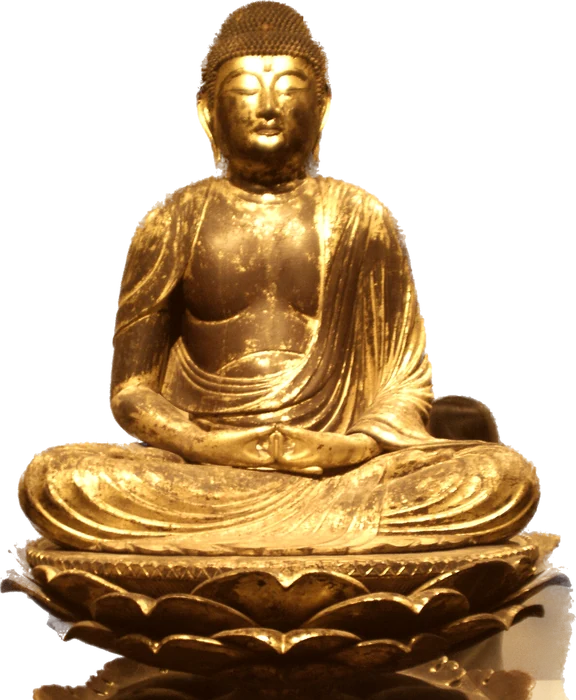
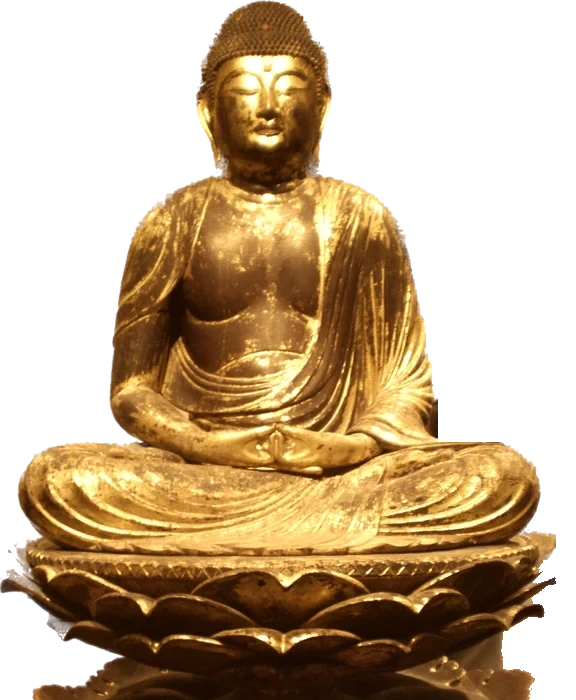
Quan Âm nghìn tay vẽ trọn vẹn: dựng lại nửa bị cắt bằng đối xứng, lấp khe giữa các tay, đài sen đầy đủ; A Di Đà xóa mảng nền sót sau khuỷu tay và vệt mờ dưới đài sen
Claude-Session: https://claude.ai/code/session_01BG8B92ZXXVKjeiGx2spFjc

Changed region(s): [[0.875, 0.78, 1.0, 1.0], [0.75, 0.54, 0.875, 0.63]]

diff --git a/chua-binh-an/js/temple3d.js b/chua-binh-an/js/temple3d.js
@@ -250,7 +250,7 @@ const BUDDHA_IMG = {
   adida:   ['assets/buddha/adida.webp', 576 / 700, 'one', true],
   duocsu:  ['assets/buddha/duocsu.webp', 442 / 700, 'one', true],
   dilac:   ['assets/buddha/dilac.webp', 617 / 700, 'one', true],
-  quanam:  ['assets/buddha/quanam.webp', 396 / 539, 'one', true]
+  quanam:  ['assets/buddha/quanam.webp', 462 / 539, 'one', true]
 };
 const ALTAR_LABEL = { tamthe: 'ĐẠI HÙNG BẢO ĐIỆN', thichca: 'ĐẠI HÙNG BẢO ĐIỆN', adida: 'CỰC LẠC BẢO ĐIỆN', duocsu: 'DƯỢC SƯ BẢO ĐIỆN', dilac: 'ĐẠI HÙNG BẢO ĐIỆN', quanam: 'QUAN ÂM BẢO ĐIỆN' };
 let _carved = null;

diff --git a/chua-binh-an/sw.js b/chua-binh-an/sw.js
@@ -1,6 +1,6 @@
 /* Service worker: cho phép cài game về điện thoại và chơi được khi mạng yếu.
    Đổi VER mỗi lần cập nhật lớn để máy người chơi tải bản mới. */
-const VER = 'cba-v23';
+const VER = 'cba-v24';
 const CORE = [
   'game.html', 'manifest.webmanifest', 'css/game.css',
   'js/config.js', 'js/content.js', 'js/lunar.js', 'js/stories.js', 'js/temples.js', 'js/audio.js', 'js/shop-config.js', 'js/kinh-config.js', 'js/cau-hinh-rieng.js', 'js/temple3d.js',
